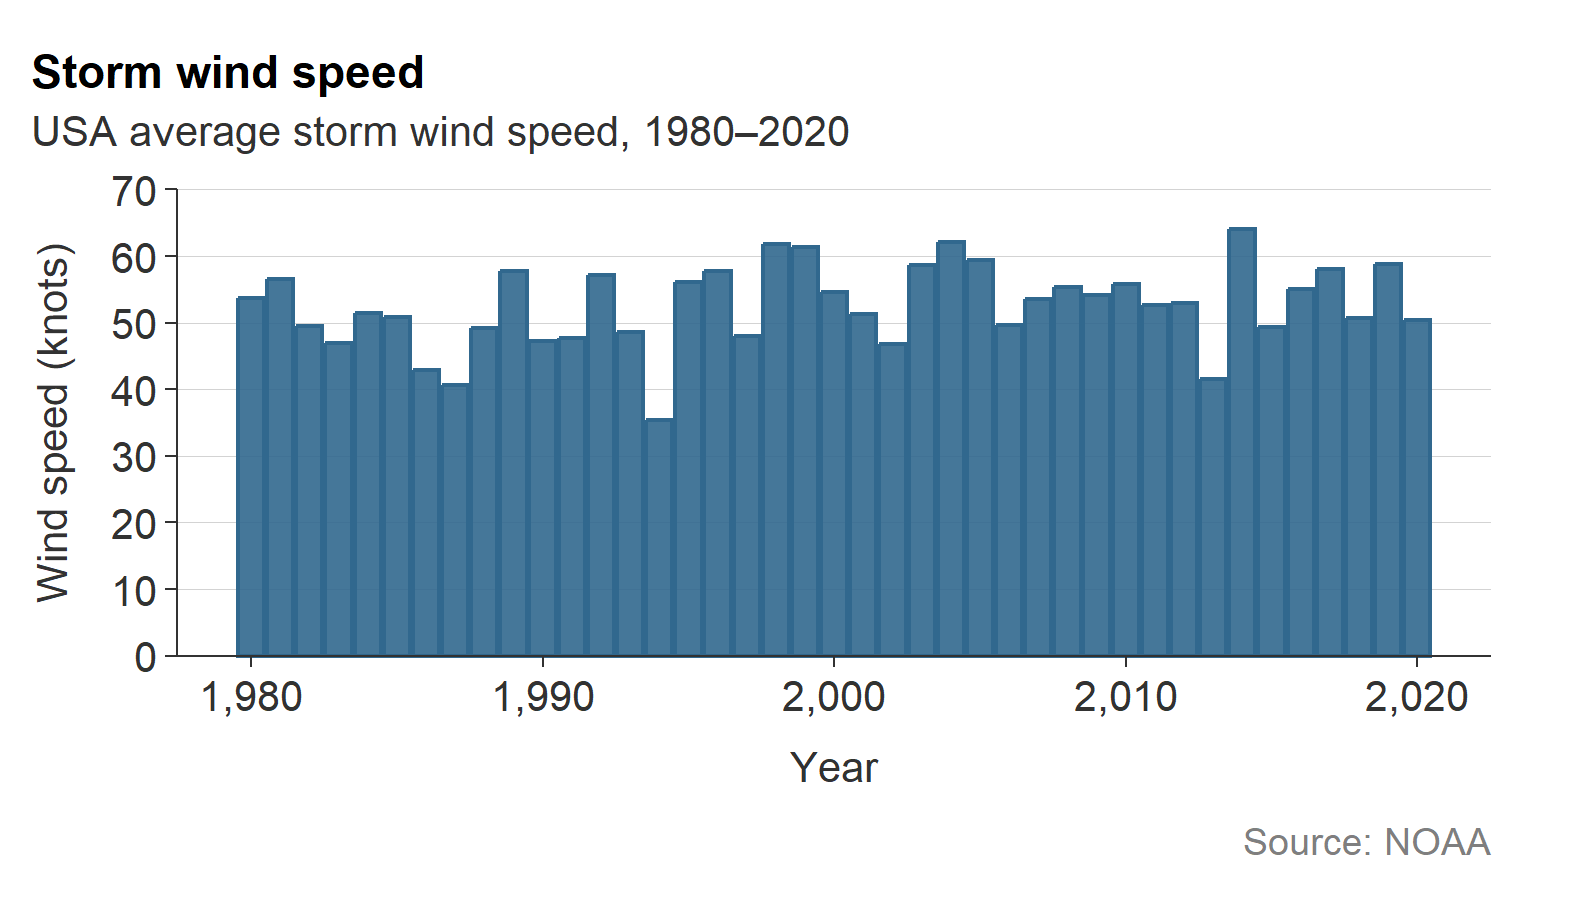
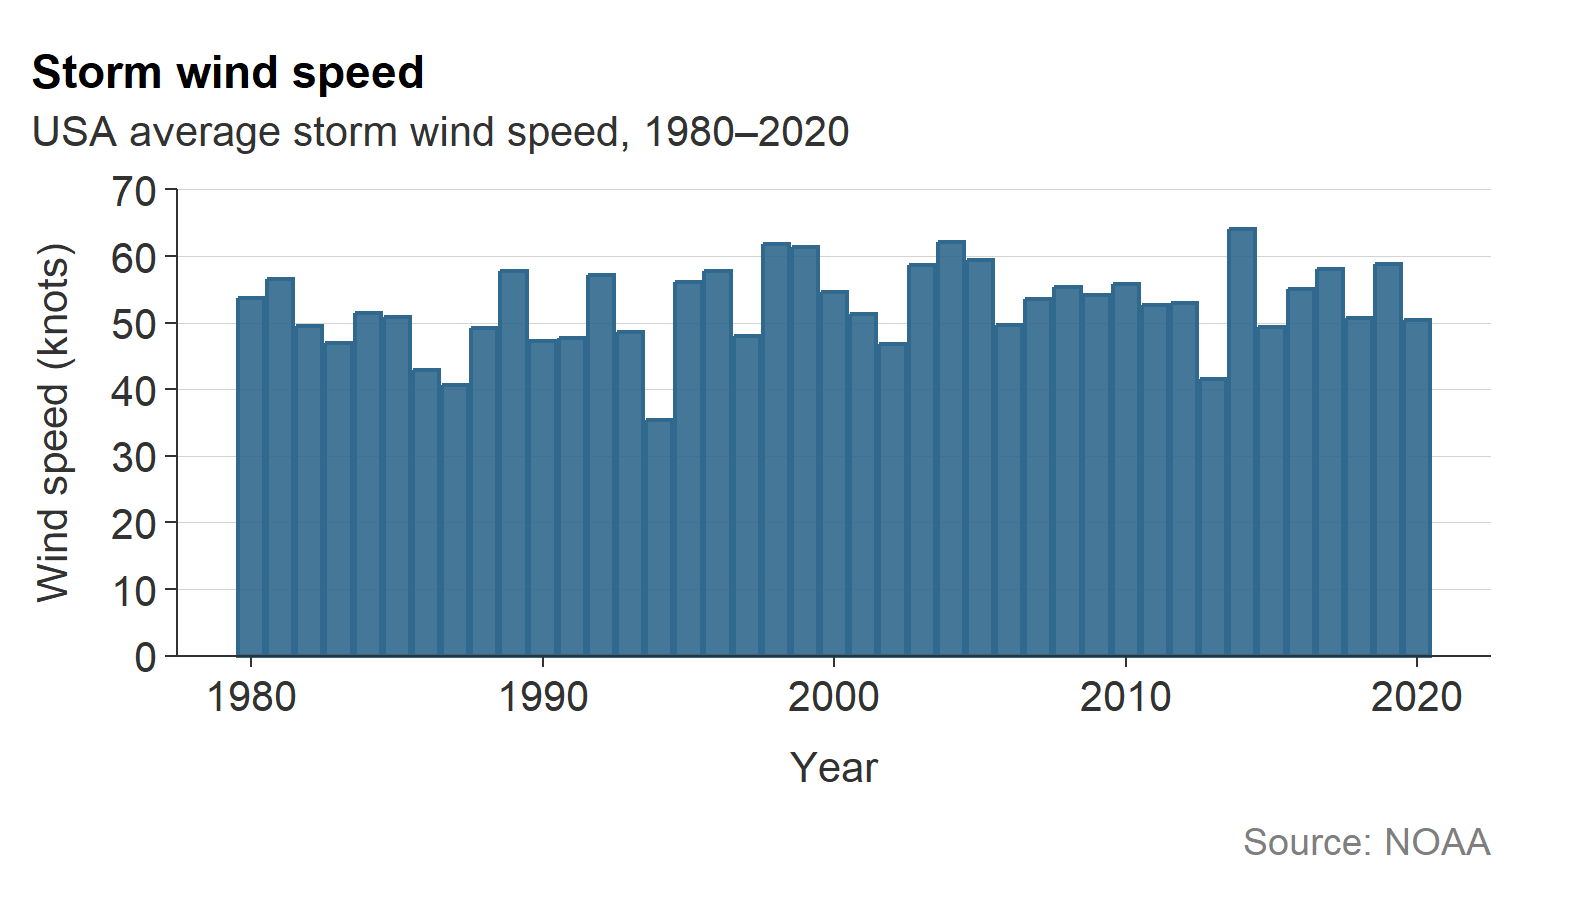
Update README

diff --git a/README.md b/README.md
@@ -20,9 +20,11 @@ downloads](https://cranlogs.r-pkg.org/badges/last-day/ggblanket?color=lightgrey)
 ## Overview
 
 {ggblanket} is a package of wrapper functions around the amazing
-‘ggplot2’ package to **simplify pretty visualisation**.
+{ggplot2} package.
 
-With this objective in mind, the {ggblanket} package:
+It aims to **simplify pretty {ggplot2} visualisation**.
+
+To do this, the {ggblanket} package:
 
 1.  uses `gg_*` functions that each wrap a `ggplot2::ggplot` call with a
     single `ggplot2::geom_*` function
@@ -130,6 +132,7 @@ storms %>%
   gg_col(
     x = year,
     y = wind,
+    x_labels = ~.x,
     title = "Storm wind speed",
     subtitle = "USA average storm wind speed, 1980\u20132020",
     y_title = "Wind speed (knots)",
@@ -251,9 +254,8 @@ penguins %>%
   tidyr::drop_na() %>%
   mutate(sex = stringr::str_to_sentence(sex)) %>% 
   gg_blank(x = flipper_length_mm, col = sex, facet = species, 
-           col_legend_place = "b") +
-  geom_histogram(aes(y = after_stat(density)), alpha = 0.9) +
-  labs(y = "Density")
+           col_legend_place = "b", y_title = "Density") +
+  geom_histogram(aes(y = after_stat(density)), alpha = 0.9) 
 ```
 
 ![](man/figures/README-unnamed-chunk-13-1.png)<!-- -->
@@ -288,33 +290,3 @@ penguins %>%
 ```
 
 ![](man/figures/README-unnamed-chunk-14-1.png)<!-- -->
-
-``` r
-x_zoom <- c(4, 6)
-
-iris %>%
-  gg_blank(
-    x = Petal.Length,
-    y = Petal.Width,
-    col = Species,
-    facet_scales = "free_x",
-    col_legend_place = "b",
-    col_labels = stringr::str_to_sentence,
-    y_expand = expansion(mult = c(0, 0.05))
-  ) +
-  geom_rect(aes(
-    xmin = x_zoom[1] * 0.975,
-    xmax = x_zoom[2] * 1.025,
-    ymin = 0,
-    ymax = Inf
-  ),
-  colour = NA,
-  fill = "#F0F0F0"
-  ) +
-  geom_point() +
-  ggforce::facet_zoom(xlim = c(x_zoom[1], x_zoom[2]), zoom.size = 1) +
-  theme(strip.background = element_rect(fill = "#E6E6E6")) +
-  theme(panel.spacing = unit(0.2, "cm"))
-```
-
-![](man/figures/README-unnamed-chunk-15-1.png)<!-- -->
